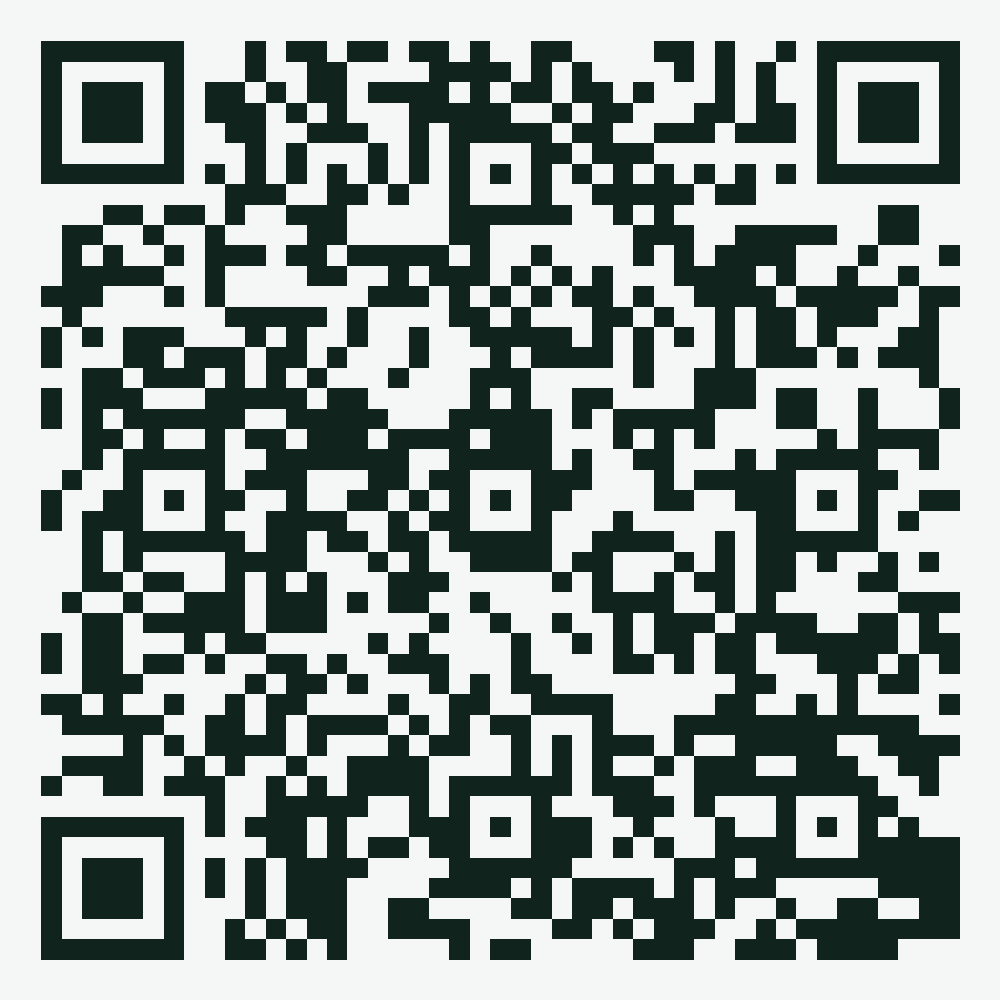
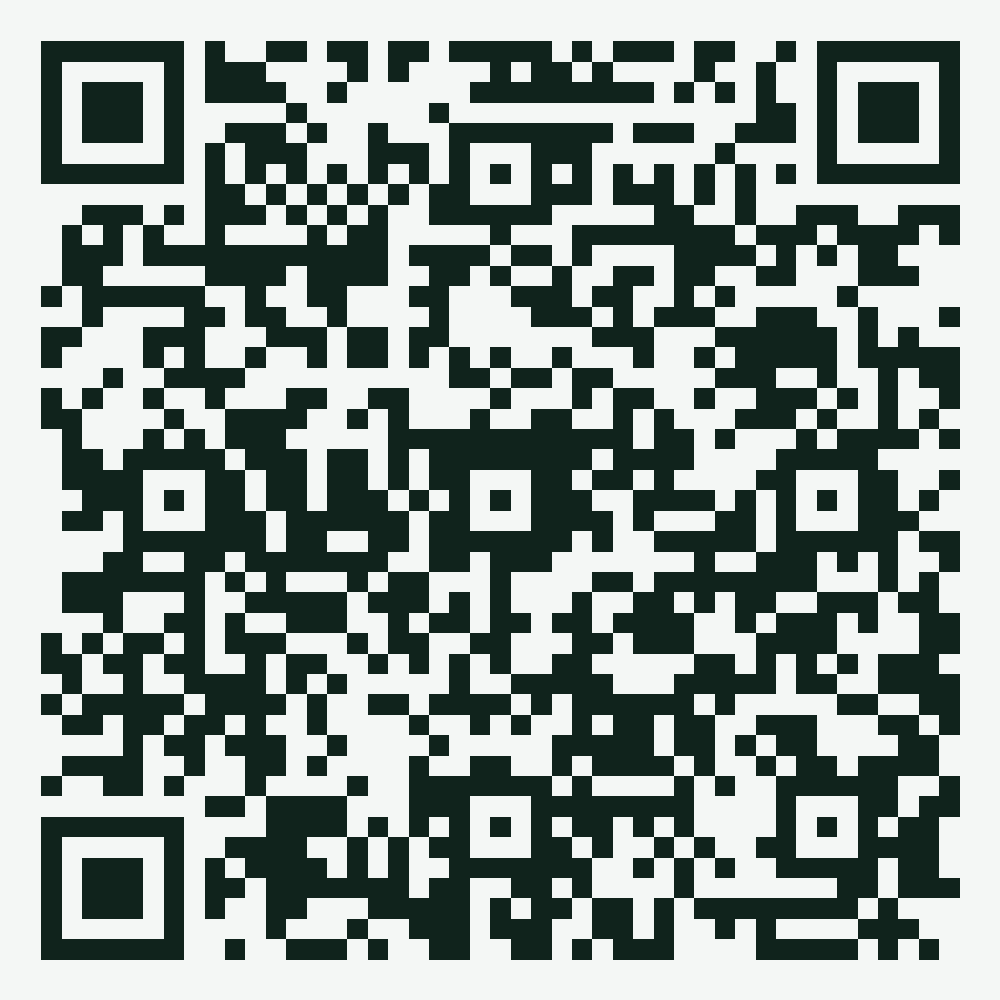
Generate QR codes

diff --git a/dist/qr/print.html b/dist/qr/print.html
@@ -1,0 +1,98 @@
+<!DOCTYPE html>
+<html lang="bs">
+<head>
+  <meta charset="UTF-8" />
+  <meta name="viewport" content="width=device-width, initial-scale=1.0" />
+  <title>STUDENT STOP - QR kodovi za štampu</title>
+  <style>
+    * { box-sizing: border-box; margin: 0; padding: 0; }
+    @page { size: A4; margin: 15mm; }
+    body { font-family: -apple-system, BlinkMacSystemFont, 'Segoe UI', Roboto, sans-serif; background: #F4F7F5; color: #10231C; padding: 20px; }
+    .header { text-align: center; margin-bottom: 30px; padding-bottom: 20px; border-bottom: 2px solid #0B7A4B; }
+    .logo { display: inline-flex; align-items: center; gap: 12px; margin-bottom: 10px; }
+    .logo-icon { width: 60px; height: 60px; background: #0B7A4B; border-radius: 12px; display: flex; align-items: center; justify-content: center; }
+    .logo-icon svg { width: 36px; height: 36px; stroke: white; }
+    .logo-text h1 { font-size: 28px; font-weight: 700; color: #0B7A4B; line-height: 1.2; }
+    .logo-text p { font-size: 14px; color: #6B8E7A; }
+    .subtitle { font-size: 16px; color: #4A6F5A; }
+    .grid { display: grid; grid-template-columns: repeat(2, 1fr); gap: 20px; }
+    .station-card { background: white; border-radius: 16px; padding: 20px; box-shadow: 0 4px 6px rgba(0,0,0,0.05); border: 1px solid #D0DCD6; page-break-inside: avoid; display: flex; flex-direction: column; align-items: center; }
+    .qr-container { width: 180px; height: 180px; margin-bottom: 16px; display: flex; align-items: center; justify-content: center; }
+    .qr-container img { width: 100%; height: 100%; object-fit: contain; }
+    .station-info { text-align: center; width: 100%; }
+    .station-info h2 { font-size: 20px; font-weight: 700; color: #10231C; margin-bottom: 8px; }
+    .scan-text { font-size: 14px; font-weight: 600; color: #0B7A4B; margin-bottom: 8px; }
+    .url { font-size: 11px; color: #6B8E7A; word-break: break-all; font-family: monospace; }
+    @media print {
+      body { background: white; padding: 0; }
+      .grid { gap: 15px; }
+      .station-card { box-shadow: none; border: 1px solid #ccc; }
+    }
+  </style>
+</head>
+<body>
+  <div class="header">
+    <div class="logo">
+      <div class="logo-icon">
+        <svg viewBox="0 0 32 32" fill="none">
+          <rect width="32" height="32" rx="8" fill="currentColor" />
+          <path d="M8 16L14 22L24 10" stroke="currentColor" strokeWidth="3" strokeLinecap="round" strokeLinejoin="round" fill="none" />
+        </svg>
+      </div>
+      <div class="logo-text">
+        <h1>STUDENT STOP</h1>
+        <p>Pametna stanica za pametnu mladež</p>
+      </div>
+    </div>
+    <p class="subtitle">QR kodovi za sve stanice – spremni za štampu na A4</p>
+  </div>
+
+  <div class="grid">
+    
+    <div class="station-card">
+      <div class="qr-container">
+        <img src="station-gimnazija.svg" alt="QR kod za stanicu Gimnazija" />
+      </div>
+      <div class="station-info">
+        <h2>Gimnazija</h2>
+        <p class="scan-text">Skeniraj i prati autobus</p>
+        <p class="url">https://IlZerolI.github.io/student_stop/#/?station=gimnazija</p>
+      </div>
+    </div>
+  
+    <div class="station-card">
+      <div class="qr-container">
+        <img src="station-trg-slobode.svg" alt="QR kod za stanicu Trg Slobode" />
+      </div>
+      <div class="station-info">
+        <h2>Trg Slobode</h2>
+        <p class="scan-text">Skeniraj i prati autobus</p>
+        <p class="url">https://IlZerolI.github.io/student_stop/#/?station=trg-slobode</p>
+      </div>
+    </div>
+  
+    <div class="station-card">
+      <div class="qr-container">
+        <img src="station-medicinska-skola.svg" alt="QR kod za stanicu Medicinska škola" />
+      </div>
+      <div class="station-info">
+        <h2>Medicinska škola</h2>
+        <p class="scan-text">Skeniraj i prati autobus</p>
+        <p class="url">https://IlZerolI.github.io/student_stop/#/?station=medicinska-skola</p>
+      </div>
+    </div>
+  
+    <div class="station-card">
+      <div class="qr-container">
+        <img src="station-autobuska-stanica.svg" alt="QR kod za stanicu Autobuska stanica" />
+      </div>
+      <div class="station-info">
+        <h2>Autobuska stanica</h2>
+        <p class="scan-text">Skeniraj i prati autobus</p>
+        <p class="url">https://IlZerolI.github.io/student_stop/#/?station=autobuska-stanica</p>
+      </div>
+    </div>
+  
+  </div>
+</body>
+</html>

diff --git a/qr/print.html b/qr/print.html
@@ -56,7 +56,7 @@
       <div class="station-info">
         <h2>Gimnazija</h2>
         <p class="scan-text">Skeniraj i prati autobus</p>
-        <p class="url">https://IlZerolI.github.io/student-stop/#/?station=gimnazija</p>
+        <p class="url">https://IlZerolI.github.io/student_stop/#/?station=gimnazija</p>
       </div>
     </div>
   
@@ -67,7 +67,7 @@
       <div class="station-info">
         <h2>Trg Slobode</h2>
         <p class="scan-text">Skeniraj i prati autobus</p>
-        <p class="url">https://IlZerolI.github.io/student-stop/#/?station=trg-slobode</p>
+        <p class="url">https://IlZerolI.github.io/student_stop/#/?station=trg-slobode</p>
       </div>
     </div>
   
@@ -78,7 +78,7 @@
       <div class="station-info">
         <h2>Medicinska škola</h2>
         <p class="scan-text">Skeniraj i prati autobus</p>
-        <p class="url">https://IlZerolI.github.io/student-stop/#/?station=medicinska-skola</p>
+        <p class="url">https://IlZerolI.github.io/student_stop/#/?station=medicinska-skola</p>
       </div>
     </div>
   
@@ -89,7 +89,7 @@
       <div class="station-info">
         <h2>Autobuska stanica</h2>
         <p class="scan-text">Skeniraj i prati autobus</p>
-        <p class="url">https://IlZerolI.github.io/student-stop/#/?station=autobuska-stanica</p>
+        <p class="url">https://IlZerolI.github.io/student_stop/#/?station=autobuska-stanica</p>
       </div>
     </div>
   
